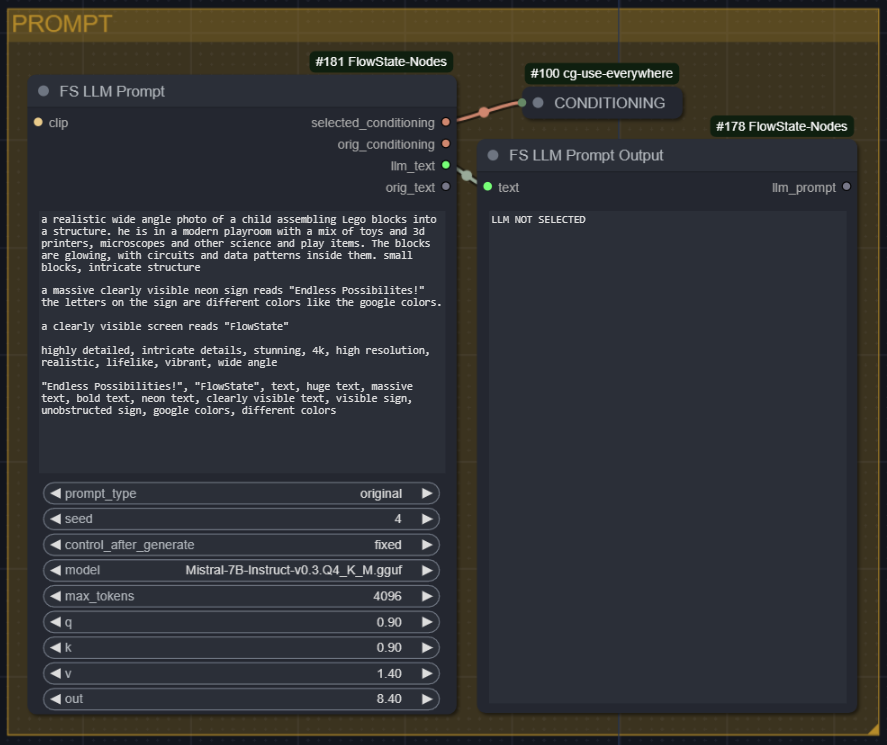
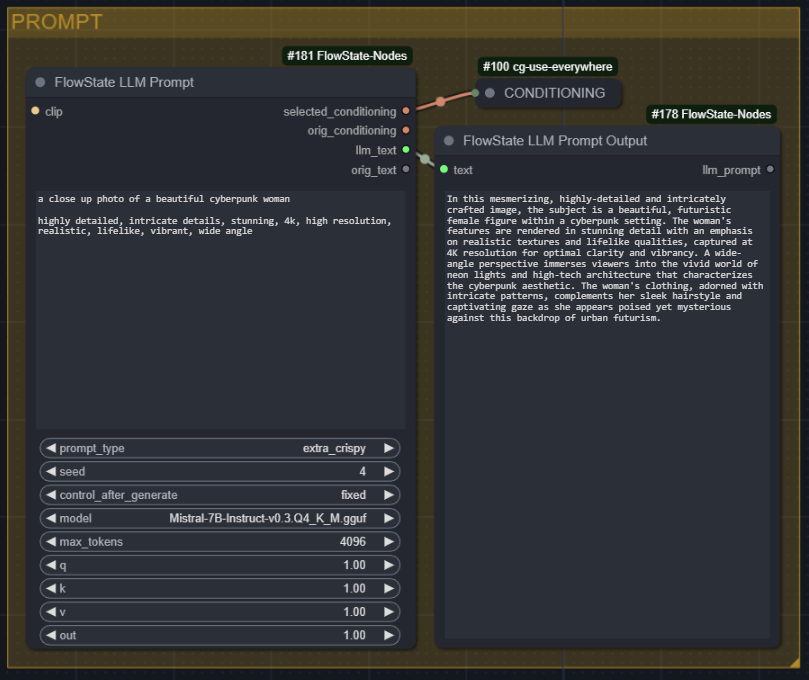
Update Unified Model Loader
Added Clip and VAE into loader.

diff --git a/FlowStateNodes.py b/FlowStateNodes.py
@@ -18,9 +18,14 @@ import node_helpers
 import folder_paths
 import importlib
 
+sys.path.insert(0, os.path.join(os.path.dirname(os.path.realpath(__file__)), "comfy"))
+import comfy.sd
+
 from PIL import Image, ImageOps, ImageSequence
 from comfy import model_management
+from comfy.utils import load_torch_file
 from nodes import UNETLoader
+from nodes import CheckpointLoaderSimple
 from custom_nodes.ComfyUI_bitsandbytes_NF4 import CheckpointLoaderNF4
 
 
@@ -75,6 +80,7 @@ METADATA_RAW = ('METADATA_RAW', {'forceInput': True})
 # OUTPUT TYPES
 ##
 MODEL = ('MODEL', )
+MODEL_UNIFIED = ('MODEL', 'CLIP', 'VAE', )
 CONDITIONING = ('CONDITIONING', )
 
 STRING_OUT = ('STRING', )
@@ -97,52 +103,159 @@ DEFAULT_INSTRUCTIONS = 'Generate a prompt from "{prompt}"'
 # NODES
 ##
 class FlowStateUnifiedModelLoader:
-    CATEGORY = 'FlowState/switch'
+    CATEGORY = 'FlowState/loader'
+    DESCRIPTION = 'Load checkpoints and UNETs, includes NF4 support.'
     FUNCTION = 'load_model'
-    RETURN_TYPES = MODEL
+    RETURN_TYPES = MODEL_UNIFIED
+    RETURN_NAMES = ('model', 'clip', 'vae', )
+    OUTPUT_TOOLTIPS = (
+        'Checkpoint or UNET model.',
+        'The CLIP model used for encoding text prompts.',
+        'The VAE model used for encoding and decoding images to and from latent space.',
+    )
 
     @classmethod
     def INPUT_TYPES(s):
         return {
             'required': {
-                'ckpt_name': (folder_paths.get_filename_list('checkpoints'), ),
+                'nf4_name': (folder_paths.get_filename_list('checkpoints'), ),
+                'ckpt_name': (folder_paths.get_filename_list('checkpoints'), {'tooltip': 'Uses included CLIP & VAE'}, ),
                 'unet_name': (folder_paths.get_filename_list('diffusion_models'), ),
                 'weight_dtype': (['default', 'fp8_e4m3fn', 'fp8_e5m2'], ),
-                'model_type': (['ckpt', 'unet'],)
+                'model_type': (['ckpt', 'unet', 'nf4'],),
+                'clip_1': (folder_paths.get_filename_list('clip'), ),
+                'clip_2': (folder_paths.get_filename_list('clip'), ),
+                'clip_type': (['default', 'sdxl', 'sd3', 'flux'], ),
+                "vae_name": (['default'] + s.vae_list(), ),
             }
         }
 
-    def load_model(self, ckpt_name, unet_name, weight_dtype, model_type='ckpt'):
-        print(f' ckpt_name: {ckpt_name}, unet_name: {unet_name}, weight_dtype: {weight_dtype}, model_type: {model_type}, ')
-        if model_type == 'ckpt':
-            ckpt_loader = CheckpointLoaderNF4()
-            model = ckpt_loader.load_checkpoint(ckpt_name)
-            print(f' ckpt: {model}')
-            return model
-        else:
-            unet_loader = UNETLoader()
-            model = unet_loader.load_unet(unet_name, weight_dtype)
-            print(f' unet: {model}')
-            return model
+    @staticmethod
+    def vae_list():
+        vaes = folder_paths.get_filename_list("vae")
+        approx_vaes = folder_paths.get_filename_list("vae_approx")
+        sdxl_taesd_enc = False
+        sdxl_taesd_dec = False
+        sd1_taesd_enc = False
+        sd1_taesd_dec = False
+        sd3_taesd_enc = False
+        sd3_taesd_dec = False
+        f1_taesd_enc = False
+        f1_taesd_dec = False
 
+        for v in approx_vaes:
+            if v.startswith("taesd_decoder."):
+                sd1_taesd_dec = True
+            elif v.startswith("taesd_encoder."):
+                sd1_taesd_enc = True
+            elif v.startswith("taesdxl_decoder."):
+                sdxl_taesd_dec = True
+            elif v.startswith("taesdxl_encoder."):
+                sdxl_taesd_enc = True
+            elif v.startswith("taesd3_decoder."):
+                sd3_taesd_dec = True
+            elif v.startswith("taesd3_encoder."):
+                sd3_taesd_enc = True
+            elif v.startswith("taef1_encoder."):
+                f1_taesd_dec = True
+            elif v.startswith("taef1_decoder."):
+                f1_taesd_enc = True
+        if sd1_taesd_dec and sd1_taesd_enc:
+            vaes.append("taesd")
+        if sdxl_taesd_dec and sdxl_taesd_enc:
+            vaes.append("taesdxl")
+        if sd3_taesd_dec and sd3_taesd_enc:
+            vaes.append("taesd3")
+        if f1_taesd_dec and f1_taesd_enc:
+            vaes.append("taef1")
+        return vaes
 
-class FlowStatePromptSwitch:
-    CATEGORY = 'FlowState/switch'
-    FUNCTION = 'switch_prompt'
-    RETURN_TYPES = CONDITIONING
+    @staticmethod
+    def load_taesd(name):
+        sd = {}
+        approx_vaes = folder_paths.get_filename_list("vae_approx")
+
+        encoder = next(filter(lambda a: a.startswith("{}_encoder.".format(name)), approx_vaes))
+        decoder = next(filter(lambda a: a.startswith("{}_decoder.".format(name)), approx_vaes))
+
+        enc = load_torch_file(folder_paths.get_full_path_or_raise("vae_approx", encoder))
+        for k in enc:
+            sd["taesd_encoder.{}".format(k)] = enc[k]
+
+        dec = load_torch_file(folder_paths.get_full_path_or_raise("vae_approx", decoder))
+        for k in dec:
+            sd["taesd_decoder.{}".format(k)] = dec[k]
+
+        if name == "taesd":
+            sd["vae_scale"] = torch.tensor(0.18215)
+            sd["vae_shift"] = torch.tensor(0.0)
+        elif name == "taesdxl":
+            sd["vae_scale"] = torch.tensor(0.13025)
+            sd["vae_shift"] = torch.tensor(0.0)
+        elif name == "taesd3":
+            sd["vae_scale"] = torch.tensor(1.5305)
+            sd["vae_shift"] = torch.tensor(0.0609)
+        elif name == "taef1":
+            sd["vae_scale"] = torch.tensor(0.3611)
+            sd["vae_shift"] = torch.tensor(0.1159)
+        return sd
 
     @classmethod
-    def INPUT_TYPES(s):
-        return {
-            'required': {
-                'llm': CONDITIONING,
-                'original': CONDITIONING,
-                'prompt_type': (['llm', 'original'],)
-            }
-        }
+    def load_vae(self, vae_name):
+        if vae_name in ["taesd", "taesdxl", "taesd3", "taef1"]:
+            sd = self.load_taesd(vae_name)
+        else:
+            vae_path = folder_paths.get_full_path_or_raise("vae", vae_name)
+            sd = load_torch_file(vae_path)
+        vae = comfy.sd.VAE(sd=sd)
+        return vae
 
-    def switch_prompt(self, llm, original, prompt_type='llm'):
-        return (llm, ) if prompt_type == 'llm' else (original, )
+    def load_clip(self, clip_name1, clip_name2, type):
+        clip_path1 = folder_paths.get_full_path_or_raise("clip", clip_name1)
+        clip_path2 = folder_paths.get_full_path_or_raise("clip", clip_name2)
+        if type == "sdxl":
+            clip_type = comfy.sd.CLIPType.STABLE_DIFFUSION
+        elif type == "sd3":
+            clip_type = comfy.sd.CLIPType.SD3
+        elif type == "flux":
+            clip_type = comfy.sd.CLIPType.FLUX
+
+        clip = comfy.sd.load_clip(ckpt_paths=[clip_path1, clip_path2], embedding_directory=folder_paths.get_folder_paths("embeddings"), clip_type=clip_type)
+        return clip
+
+    def load_model(self, nf4_name, ckpt_name, unet_name, weight_dtype, model_type, clip_1, clip_2, clip_type, vae_name):
+        model, clip, vae = None, None, None
+
+        if model_type == 'nf4':
+            print(f' FlowState Unified Loader - loading: {nf4_name}')
+            loader = CheckpointLoaderNF4()
+            loaded_model = loader.load_checkpoint(nf4_name)
+            model = loaded_model[0]
+            if clip_type == 'default': clip = loaded_model[1]
+            if vae_name == 'default': vae = loaded_model[2]
+
+        if model_type == 'ckpt':
+            print(f' FlowState Unified Loader - loading: {ckpt_name}')
+            loader = CheckpointLoaderSimple()
+            loaded_model = loader.load_checkpoint(ckpt_name)
+            model = loaded_model[0]
+            if clip_type == 'default': clip = loaded_model[1]
+            if vae_name == 'default': vae = loaded_model[2]
+
+        if model_type == 'unet':
+            print(f' FlowState Unified Loader - loading: {unet_name}')
+            loader = UNETLoader()
+            model = loader.load_unet(unet_name, weight_dtype)[0]
+
+        if vae == None:
+            vae = self.vae_list()[0] if vae_name == 'default' else self.load_vae(vae_name)
+
+        if clip == None and clip_type != 'default':
+            clip = self.load_clip(clip_1, clip_2, clip_type)
+
+        if clip == None: clip = self.load_clip(clip_1, clip_2, 'flux')
+
+        return (model, clip, vae,)
 
 
 class FlowStateLatentChooser:
@@ -264,7 +377,7 @@ class FlowStatePromptLLM:
         return {
             'required': {
                 'text_prompt': STRING_PROMPT,
-                'prompt_type': (['llm', 'original'],),
+                'prompt_type': (['extra_crispy', 'original'],),
                 'seed': SEED,
                 'model': (available_models,),
                 'max_tokens': MAX_TOKENS,
@@ -379,10 +492,10 @@ class FlowStatePromptLLM:
         if prompt_type == 'original':
             return (orig_conditioning, orig_conditioning, 'LLM NOT SELECTED', text_prompt)
 
-        if prompt_type == 'llm' and not model.endswith('.gguf'):
+        if prompt_type == 'extra_crispy' and not model.endswith('.gguf'):
             return (orig_conditioning, orig_conditioning, 'NOT A GGUF MODEL', text_prompt)
 
-        if prompt_type == 'llm' and model.endswith('.gguf'):
+        if prompt_type == 'extra_crispy' and model.endswith('.gguf'):
             model_path = os.path.join(GLOBAL_MODELS_DIR, model)
             generate_kwargs = {'max_tokens': max_tokens, 'temperature': 1.0, 'top_p': 0.9, 'top_k': 50, 'repeat_penalty': 1.2}
             loaded_model = Llama(model_path=model_path, n_gpu_layers=-1, seed=seed, verbose=False, n_ctx=2048,)
@@ -435,16 +548,14 @@ class FlowStatePromptLLMOutput:
 ##
 NODE_CLASS_MAPPINGS = {
     'FlowStateUnifiedModelLoader': FlowStateUnifiedModelLoader,
-    'FlowStatePromptSwitch': FlowStatePromptSwitch,
     'FlowStateLatentChooser': FlowStateLatentChooser,
     'FlowStatePromptLLM': FlowStatePromptLLM,
     'FlowStatePromptLLMOutput': FlowStatePromptLLMOutput,
 }
 
 NODE_DISPLAY_NAME_MAPPINGS = {
-    'FlowStateUnifiedModelLoader': 'FS Unified Model Loader',
-    'FlowStatePromptSwitch': 'FS Prompt Switch',
-    'FlowStateLatentChooser': 'FS Latent Chooser',
-    'FlowStatePromptLLM': 'FS LLM Prompt',
-    'FlowStatePromptLLMOutput': 'FS LLM Prompt Output',
+    'FlowStateUnifiedModelLoader': 'FlowState Unified Model Loader',
+    'FlowStateLatentChooser': 'FlowState Latent Chooser',
+    'FlowStatePromptLLM': 'FlowState LLM Prompt',
+    'FlowStatePromptLLMOutput': 'FlowState LLM Prompt Output',
 }
